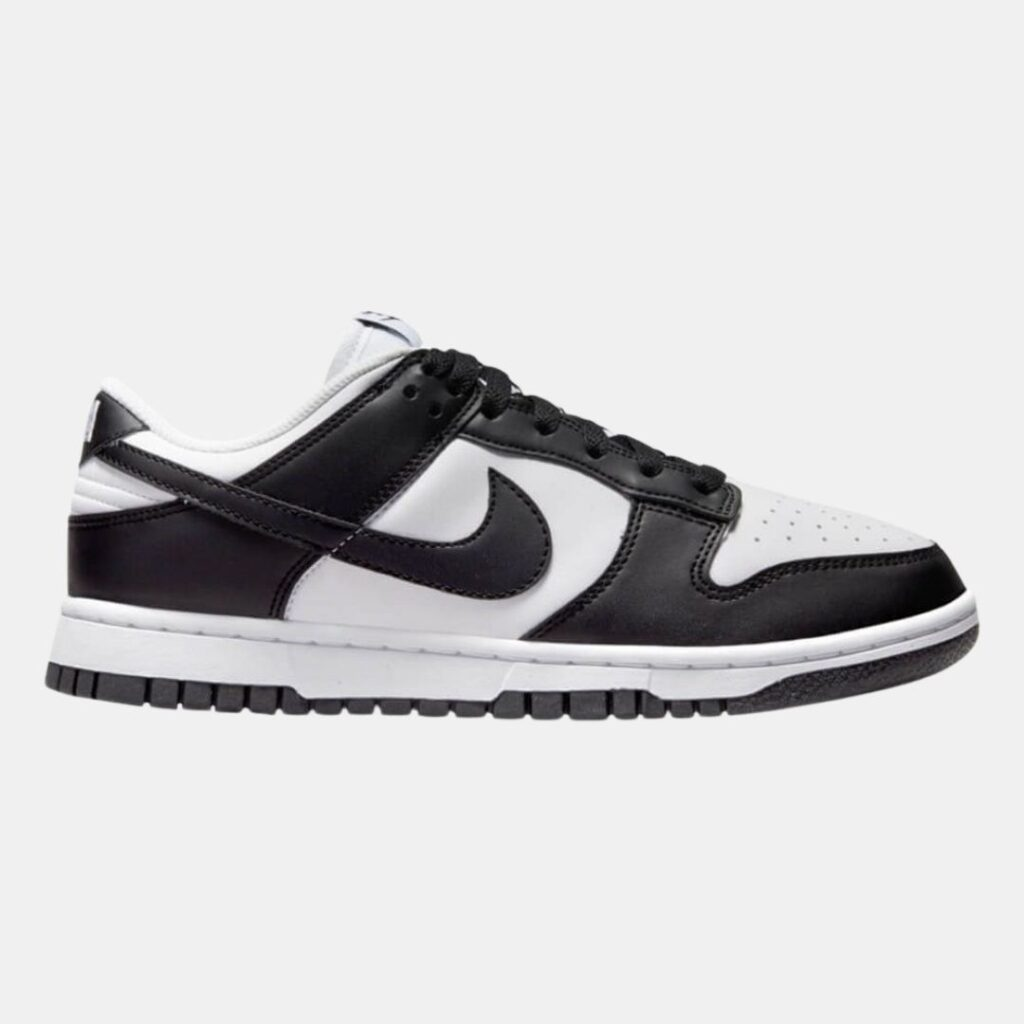
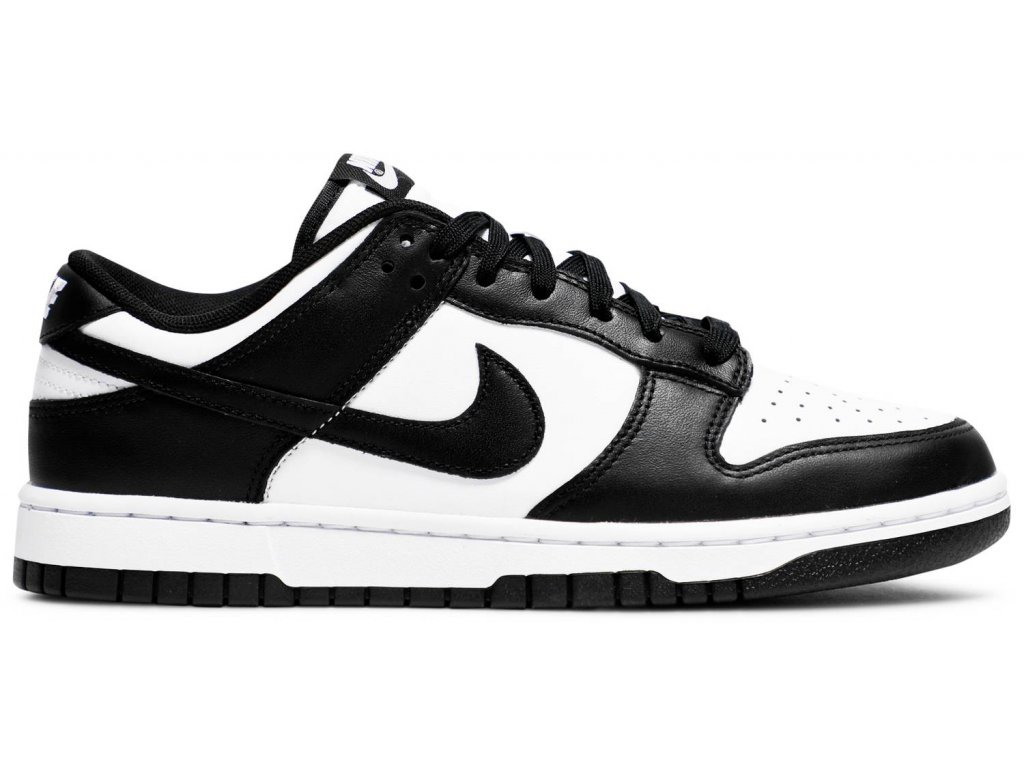
pokracujem

Changed region(s): [[0.0, 0.1875, 1.0, 0.8125]]

diff --git a/projekty/eshop/kategorie/jordan.html b/projekty/eshop/kategorie/jordan.html
@@ -1,6 +1,6 @@
 <html>
     <head>
-        <title>Podstránka počítače</title>
+        <title>Jordan</title>
         <link href="../css/produkty.css" type="text/css" rel="stylesheet">
 </head>
 <body>
@@ -14,7 +14,7 @@
                     <li class="zoznam"><a href="./adidas.html">Adidas</a></li>
                     <li class="zoznam"><a href="./bape.html">Bape</a></li>
                     <li class="zoznam"><a href="./newbalance.html">NewBalance</a></li>
-                    <li class="zoznam"><a href="../../../portfolio/index.html">O nás</a></li>
+                    <li class="zoznam"><a href="../../../index.html">O nás</a></li>
                 </ul>
             </nav>
             <div class="menu">
@@ -33,71 +33,71 @@
         
         <div class="produkt1">
             <div class="produkt11">
-                <img src="Resources/images/alza.png" height="300px" width="300px">
-                <div class="nazov"><h2>Alza GameBox Core RTX 3070</h2></div>
-                <div class="cena"><h2>Cena:1919€</h2></div>
+                <img src="../obrazky/jordanlow.jpg" height="300px" width="400px">
+                <div class="nazov"><h2>Air Jordan 1 Low SE</h2></div>
+                <div class="cena"><h2>Cena:110€</h2></div>
                 <button type="button">Vložiť do košíka</button>
                 <button type="button">Uplatniť zľavový kupón</button>
             </div>
-            <div class="popis"><p>Tak toto je úplná pecka v našej ponuke herných počítačov. Použili sme totiž najnovší 8-jadrový čip od Intelu v kombinácii s horúcou novinkou NVIDIA GeForce RTX 3070. Vďaka tomu sa s Alza GameBox RTX3070 nezastavíte pred žiadnou hrou a všetko si užijete pokojne aj v 4K!</p>
+            <div class="popis"><p>Tenisky, ktoré vždy vyniknú svojím odvážnym a sviežim štýlom. Air Jordan 1 Low SE vám poskytnú profil a nadčasové detaily, ktoré máte radi, vo farbách, ktoré vzdávajú hold vášmu osobnému štýlu.</p>
                
             </div>    
         </div>
         
         <div class="produkt2">
             <div class="produkt22">
-                <img src="Resources/images/hpp.png" height="300px" width="250px">
-                <div class="nazov"><h2>HP ProDesk 400 G7</h2></div>
-                <div class="cena"><h2>Cena:959,90€</h2></div>
+                <img src="../obrazky/aj1mid.jpg" height="320px" width="420px">
+                <div class="nazov"><h2>Air Jordan 1 Mid SE</h2></div>
+                <div class="cena"><h2>Cena:130€</h2></div>
                 <button type="button">Vložiť do košíka</button>
                 <button type="button">Uplatniť zľavový kupón</button>
             </div>
-        <div class="popis"><p>PC HP je vynikajúcou voľbou na každý pracovný stôl aj do domácnosti. Základom sú spoľahlivé komponenty, iste vás poteší aj pomer ceny k výkonu. Zostava sa používa na plnenie tých najťažších úloh a budú s ňou spokojní aj tí najnáročnejší používatelia. Srdcom praktickej základnej zostavy PC HP ProDesk 400 G7 je čip Intel Core i7 ktorému sekunduje extra veľká porcia operačnej pamäte. Pri práci iste oceníte aj rýchlosť disku, SSD disk bez mechanických častí je ohromne rýchly, to sa prejaví na svižnej práci s dátami aj na celkovom chode.</p>
+        <div class="popis"><p>Air Jordan 1 Mid SE vám dodajú odvážny vzhľad, sú vyrobené z prémiovej kože a nadčasovým favoritom dodajú svieži vzhľad s aktualizovanou farebnou schémou.</p>
                 
             </div> 
         </div>
         
         <div class="produkt3">
         <div class="produkt33">
-            <img src="Resources/images/pavilion.png" height="300px" width="250px">
-            <div class="nazov"><h2>HP Pavilion Gaming TG01-2901nc Black</h2></div>
-            <div class="cena"><h2>Cena:1269€</h2></div>
+            <img src="../obrazky/aj1high.jpg" height="300px" width="400px">
+            <div class="nazov"><h2>Air Jordan 1 Hi FlyEase Schuh</h2></div>
+            <div class="cena"><h2>Cena:160€</h2></div>
             <button type="button">Vložiť do košíka</button>
             <button type="button">Uplatniť zľavový kupón</button>
         </div>
-        <div class="popis"><p>Herný počítač HP je ideálnym spoločníkom každého nadšeného hráča. Okrem moderného dizajnu vám ponúkne aj rýchly a spoľahlivý hardvér. Vybraná herná PC zostava je príjemným kompromisom medzi výkonom a cenou, pohodlne vystačí menej náročným hráčom a nemusíte sa s ňou báť ani novších herných titulov. Základným prvkom PC herného HP Pavilion Gaming TG01-2901nc Black je čip Intel Core i5 ku ktorému patrí extra veľká porcia operačnej pamäte. Môže sa pochváliť výkonnou grafickou kartou, prostredníctvom ktorej si vychutnáte tie správne detaily.</p>
+        <div class="popis"><p>Air Jordan 1 Hi FlyEase kombinujú vytúžený štýl prvých typických tenisiek Michaela Jordana s rýchlym a jednoduchým vstupným systémom jednou rukou.Neexistujú žiadne šnúrky na zaväzovanie, len obopínajúci zips a dva remienky, ktoré zabezpečia prispôsobenie.</p>
             
         </div>
         </div>
         
         <div class="produkt4">
         <div class="produkt44">
-            <img src="Resources/images/gamebox.png" height="300px" width="300px">
-            <div class="nazov"><h2>Alza GameBox Core GTX1660 Super</h2></div>
-            <div class="cena"><h2>Cena:1049€</h2></div>
+            <img src="../obrazky/aj13.jpg" height="300px" width="400px">
+            <div class="nazov"><h2>Air Jordan 13 Del Sol</h2></div>
+            <div class="cena"><h2>Cena:209€</h2></div>
             <button type="button">Vložiť do košíka</button>
             <button type="button">Uplatniť zľavový kupón</button>
         </div>
-        <div class="popis"><p>Šesťjadrový procesor ako nový herný štandard a spoločne s ním grafika radu GeForce GTX 1660 SUPER. Vďaka tejto kombinácii si na počítači Alza GameBox Core GTX1660 Super zahráte prakticky všetky hry vo Full HD rozlíšení. Celé PC je profesionálne zostavené do atraktívnej skrine SXT Shadow-2085.</p>
+        <div class="popis"><p>Keď svieti slnko, život je o niečo priateľskejší a jednoduchší. Inšpirovaný energiou týchto lúčov, Air Jordan 13 "Del Sol" a obal majú minimalistický dizajn s OG vzhľadom a originálnym balením. Čierna medzipodrážka poskytuje dokonalý základ pre prémiový zvršok z bielej prešívanej kože a farebné semišové akcenty Del Sol. Užite si prvé slnečné lúče a rozvoňte sa na jar s najnovšou farbou Air Jordan 13.</p>
             
         </div>
         </div>
         
         <div class="produkt5">
         <div class="produkt55">
-            <img src="Resources/images/thinkpad.png" height="275px" width="400px">
-            <div class="nazov"><h2>Lenovo ThinkCentre M75s SFF</h2></div>
-            <div class="cena"><h2>Cena:598,75€</h2></div>
+            <img src="../obrazky/aj11.jpg" height="300px" width="400px">
+            <div class="nazov"><h2>Air Jordan 11 Cool Grey</h2></div>
+            <div class="cena"><h2>Cena:190€</h2></div>
             <button type="button">Vložiť do košíka</button>
             <button type="button">Uplatniť zľavový kupón</button>
         </div>
-        <div class="popis"><p>Počítačová zostava Lenovo ThinkCentre M725s vo vyhotovení SFF (Small Form Factor) ponúka efektivitu a vysoký výkon vo veľmi malom vyhotovení. Počítač môže byť postavený vertikálne aj horizontálne, takže sa pre neho nájde najvhodnejšie umiestnenie v každom pracovnom interiéri. Osobný počítač ThinkCentre je maximálne spoľahlivý a zabezpečený, môžete sapreto plne sústrediť na vaše podnikanie a minimalizovať náklady na IT správu.</p>
+        <div class="popis"><p>Čo je chladnejšie ako cool? Cool Grey, samozrejme. Air Jordan 11 „Cool Grey“, inšpirovaný originálom, ktorý nosil Michael Jordan na svojej ceste za štvrtým majstrovským prsteňom, sa vracia na počesť jeho osláveného 20. výročia. Michael Jordan mal pri svojom návrate do ligy klasickú farbu. Táto verzia sa vyznačuje kvalitnou lakovanou a nubukovou kožou, celoprepínacím odpružením Nike Air a podrážkou Ice.</p>
             
         </div>
     </div>
 </div>
         <div class="copy">
-            <div class="copytext"><p2>©2022, EU - Matej Hric. All Rights Reserved. Products in our EU Store are sold by Bulldog Sports Ltd.</p2></div>
+            <div class="copytext"><p2>©2022, EU - Boty. All Rights Reserved.</p2></div>
         </div>
         
 </body>

diff --git a/projekty/eshop/kategorie/nike.html b/projekty/eshop/kategorie/nike.html
@@ -1,6 +1,6 @@
 <html>
 <head>
-        <title>Stránka notebooky</title>
+        <title>Nike</title>
         <link href="../css/produkty.css" type="text/css" rel="stylesheet">
 </head>
 
@@ -15,7 +15,7 @@
                     <li class="zoznam"><a href="./adidas.html">Adidas</a></li>
                     <li class="zoznam"><a href="./bape.html">Bape</a></li>
                     <li class="zoznam"><a href="./newbalance.html">NewBalance</a></li>
-                    <li class="zoznam"><a href="../../../portfolio/index.html">O nás</a></li>
+                    <li class="zoznam"><a href="../../../index.html">O nás</a></li>
                 </ul>
             </nav>
             <div class="menu">
@@ -47,58 +47,58 @@
 
 <div class="produkt2">
     <div class="produkt22">
-        <img src="../obrazky/panda.jpg" height="350px" width="380px" style="margin-left: 35px;">
-        <div class="nazov"><h2>HP Pavilion Gaming 15</h2></div>
-        <div class="cena"><h2>Cena:779€</h2></div>
+        <img src="../obrazky/panda.jpg" height="320px" width="430px" >
+        <div class="nazov"><h2>Nike dunk low Panda</h2></div>
+        <div class="cena"><h2>Cena:200€</h2></div>
         <button type="button">Vložiť do košíka</button>
         <button type="button">Uplatniť zľavový kupón</button>
     </div>
-<div class="popis"><p>Výkonný notebook HP Pavilion Gaming 15 ponúka dokonalý zážitok z používania aj vďaka výnimočnej uhlopriečke 15,6". Osvedčí sa nielen pri hraní hier, ale aj pri plnom pracovnom nasadení a multimediálnej zábave. Určite vás zaujme výrazným, tenkým dizajnom. Zdokonalený systém chladenia, dostatok konektorov a rýchle a pritom objemné úložisko – to sú ďalšie prednosti notebooku HP Pavilion Gaming 15. Určite vás poteší aj 144 Hz obnovovacou frekvenciou displeja, takže si vychutnáte plynulú zábavu a akékoľvek sekanie obrazu sa stane minulosťou.</p>
+<div class="popis"><p>Model Nike Dunk sa preslávil v roku 1985, kedy bol prispôsobený potrebám basketbalu. Silueta Nike Dunk naberala na sláve vďaka predstaveniu všestranných dizajnov a kombináciami navrhnutých vo farbách škôl. Nike Dunk sa vrátili na trh v roku 1998 ako neformálna obuv, ktorá prerazila v skate svete.</p>
     
     </div> 
 </div>
 
 <div class="produkt3">
 <div class="produkt33">
-    <img src="Resources/images/lenovontb.png" height="275px" width="400px">
-    <div class="nazov"><h2>Lenovo Legion 5 Pro</h2></div>
-    <div class="cena"><h2>Cena:1339€</h2></div>
+    <img src="../obrazky/blazer (2).jpg" height="375px" width="400px">
+    <div class="nazov"><h2>Nike Blazer Mid '77 Vintage</h2></div>
+    <div class="cena"><h2>Cena:100€</h2></div>
     <button type="button">Vložiť do košíka</button>
     <button type="button">Uplatniť zľavový kupón</button>
 </div>
-<div class="popis"><p>Veľký herný notebook Lenovo Legion poslúži aj na prácu, aj na zábavu. Konštrukcia z kovu je mimoriadne pevná a iste oceníte aj prémiové spracovanie. Hráčsky notebook Lenovo Legion 5 Pro 16ACH6H Storm Grey/Black kovový sa môže chváliť konfiguráciou, ktorá je určená pre náročnejších používateľov či študentov Nachádza sa v ňom úspornejší, ale zároveň výkonný šesťjadrový procesor AMD Ryzen 5. Vaše dáta sa budú ukladať na dostatočne objemný SSD disk, ktorý dokáže znateľne zrýchliť chod celého systému. Gaming notebook má vo výbave klávesnicu s numerickým blokom. Predinštalovaným operačným systémom, ktorý sa v počítači nachádza, je Windows 10 Home.</p>
+<div class="popis"><p>V 70-tych rokoch bola Nike novou topánkou na trhu. V skutočnosti tak nové, že sme prenikli na basketbalovú scénu a testovali prototypy na nohách nášho tímu v teréne. Samozrejme, dizajn sa rokmi zlepšil, no názov zostal rovnaký. Nike Blazer Mid '77 Vintage - klasika od začiatku.</p>
     
 </div>
 </div>
 
 <div class="produkt4">
 <div class="produkt44">
-    <img src="Resources/images/probook.png" height="400px" width="400px">
-    <div class="nazov"><h2>HP ProBook 430 G7</h2></div>
-    <div class="cena"><h2>Cena:799€</h2></div>
+    <img src="../obrazky/airmax.jpg" height="470px" width="400px">
+    <div class="nazov"><h2>Nike Air Max 90 Air Max Month</h2></div>
+    <div class="cena"><h2>Cena:150€</h2></div>
     <button type="button">Vložiť do košíka</button>
     <button type="button">Uplatniť zľavový kupón</button>
 </div>
-<div class="popis"><p>Štýlový, tenký a ľahký notebook HP ProBook 430 G7 sa výborne hodí pre pracovné nasadenie profesionálov v kancelárii i na cestách. Tento notebook predstavuje cenovo dostupnú kombináciu inovácie, špičkového zabezpečenia a multimediálnych funkcií. Na notebooku HP ProBook 430 G7 vás určite zaujme aj ultratenké telo s novou, prirodzene striebornou povrchovou úpravou s ostrými líniami a jasnými hranami.</p>
+<div class="popis"><p>Oslávte mesiac Air Max návratom do 90. rokov. Pôvodne navrhnuté na behanie, Air Max 90 sa stali klasikou vďaka svojmu desiatky rokov trvajúcemu vplyvu. Táto verzia zostáva verná pohodliu a odpruženiu originálu a zároveň dáva nový nádych ikonickému vzhľadu.</p>
     
 </div>
 </div>
 
 <div class="produkt5">
 <div class="produkt55">
-    <img src="Resources/images/acerr.png" height="325px" width="400px">
-    <div class="nazov"><h2>Acer Aspire 5</h2></div>
-    <div class="cena"><h2>Cena:754,44€</h2></div>
+    <img src="../obrazky/react.jpg" height="377px" width="400px">
+    <div class="nazov"><h2>Nike React Infinity Run Flyknit 2</h2></div>
+    <div class="cena"><h2>Cena:160€</h2></div>
     <button type="button">Vložiť do košíka</button>
     <button type="button">Uplatniť zľavový kupón</button>
 </div>
-<div class="popis"><p>Notebook – Intel Core i5 1135G7 Tiger Lake, 15.6" IPS matný 1920 × 1080, RAM 8GB DDR4, Intel Iris Xe Graphics, SSD 512GB, numerická klávesnica, podsvietená klávesnica, USB 3.2 Gen 1, USB-C, čítačka odtlačkov prstov, WiFi 6, 48 Wh batéria, hmotnosť 1.7kg, Windows 10 Home HDD upgrade kit (A515-56-56XJ)</p>
+<div class="popis"><p>Pokračujte v behu s Nike React Infinity Run Flyknit 2. Aktualizovaný zvršok Flyknit s technológiou Flywire poskytuje podporu a priedušnosť tam, kde to najviac potrebujete. Širšia oblasť prstov zaisťuje stabilitu, aby sa zabránilo krúteniu. Vysoké výšky peny zaisťujú mäkkú odozvu a dlhotrvajúci komfort. Stále jedna z našich najtestovanejších topánok je navrhnutá tak, aby vám umožnila pocítiť svoj potenciál pri každom kroku.</p>
     
 </div>
 </div>
 </div>
 <div class="copy">
-    <div class="copytext"><p2>©2022, EU - Matej Hric. All Rights Reserved. Products in our EU Store are sold by Bulldog Sports Ltd.</p2></div>
+    <div class="copytext"><p2>©2022, EU - Boty. All Rights Reserved.</p2></div>
 </div>
 
 </body>

diff --git a/projekty/eshop/css/produkty.css b/projekty/eshop/css/produkty.css
@@ -75,8 +75,9 @@ nav ul li a {
 
 .nadpis {
     text-align: center;
-    padding: 30px   ;
-    color: cyan
+    padding: 60px   ;   
+    color: rgb(255, 0, 0);
+    font-size: 50px;
 }
 
 .nazov {
@@ -89,7 +90,7 @@ nav ul li a {
 .popis {
     text-align: center;
     max-width: 750px;
-    margin-left: 25px;
+    margin-left: 150px;
     margin-top: 117px;
     color: aliceblue;
 }
@@ -183,7 +184,7 @@ button  {
     font-family: 'Segoe UI', Tahoma, Geneva, Verdana, sans-serif;
     font-weight: bolder;
     padding: 5px 1px 5px 1px;
-    background: cyan;
+    background: rgb(255, 255, 255);
     border: 0;
     border-radius: 20px;
     margin-top: 10px;
@@ -198,7 +199,7 @@ button:hover {
 
 [atribut] {
     position: relative;
-    background-color: cyan;
+    background-color: rgb(255, 255, 255);
     color: black;
 }
 
@@ -209,17 +210,17 @@ button:hover {
     left: 5px;
     right: 5px;
     margin-top: 10px;
-    background-color: cyan;
+    background-color: rgb(255, 255, 255);
     color: black;
     border-radius: 10px;
 }
 
 .copy {
-    color: cyan;
+    color: rgb(255, 0, 0);
     text-align: left;
     font-family: Impact, Haettenschweiler, 'Arial Narrow Bold', sans-serif;
     font-size: 11px;
-    border-top: 1px solid cyan;
+    border-top: 1px solid rgb(255, 0, 0);
     background-image: linear-gradient(rgb(0, 0, 0), rgb(0, 0, 0)), url(../images/hviezdy.jpg);
     background-position: center;
     background-size: cover;

diff --git a/projekty/eshop/index.html b/projekty/eshop/index.html
@@ -4,7 +4,7 @@
     <meta charset="UTF-8">
     <meta http-equiv="X-UA-Compatible" content="IE=edge">
     <meta name="viewport" content="width=device-width, initial-scale=1.0">
-    <title>Eshop s elektronikou</title>
+    <title>Eshop s teniskami</title>
     <link href="./css/style.css" type="text/css" rel="stylesheet">
 </head>
 <html>
@@ -20,7 +20,7 @@
                     <li class="zoznam"><a href="./kategorie/adidas.html">Adidas</a></li>
                     <li class="zoznam"><a href="./kategorie/bape.html">Bape</a></li>
                     <li class="zoznam"><a href="./kategorie/newbalance.html">NewBalance</a></li>
-                    <li class="zoznam"><a href="../../portfolio/index.html">O nás</a></li>
+                    <li class="zoznam"><a href="../../index.html">O nás</a></li>
                 </ul>
             </nav>
             <div class="menu">
@@ -56,7 +56,7 @@
      
            
         <div class="copy">
-            <div class="copytext"><p2>©2022, EU - Matej Hric. All Rights Reserved.</p2></div>
+            <div class="copytext"><p2>©2022, EU - Boty. All Rights Reserved.</p2></div>
         </div>
 </body>
 </html>

diff --git a/projekty/eshop/kategorie/bape.html b/projekty/eshop/kategorie/bape.html
@@ -1,7 +1,7 @@
 <!DOCTYPE html>
 <html lang="en">
     <head>
-        <title>Podstránka počítače</title>
+        <title>Bape</title>
         <link href="../css/produkty.css" type="text/css" rel="stylesheet">
 </head>
 
@@ -20,7 +20,7 @@
                     <li class="zoznam"><a href="./adidas.html">Adidas</a></li>
                     <li class="zoznam"><a href="./bape.html">Bape</a></li>
                     <li class="zoznam"><a href="./newbalance.html">NewBalance</a></li>
-                    <li class="zoznam"><a href="../../../portfolio/index.html">O nás</a></li>
+                    <li class="zoznam"><a href="../../../index.html">O nás</a></li>
                 </ul>
             </nav>
             <div class="menu">
@@ -103,7 +103,7 @@
         </div>
         </div>
         <div class="copy">
-            <div class="copytext"><p2>©2022, EU - Matej Hric. All Rights Reserved. Products in our EU Store are sold by Bulldog Sports Ltd.</p2></div>
+            <div class="copytext"><p2>©2022, EU - Boty. All Rights Reserved.</p2></div>
         </div>
         
 </body>

diff --git a/projekty/eshop/kategorie/newbalance.html b/projekty/eshop/kategorie/newbalance.html
@@ -1,6 +1,6 @@
 <html>
     <head>
-        <title>Podstránka počítače</title>
+        <title>NewBalance</title>
         <link href="../css/produkty.css" type="text/css" rel="stylesheet">
 </head>
 
@@ -15,7 +15,7 @@
                     <li class="zoznam"><a href="./adidas.html">Adidas</a></li>
                     <li class="zoznam"><a href="./bape.html">Bape</a></li>
                     <li class="zoznam"><a href="./newbalance.html">NewBalance</a></li>
-                    <li class="zoznam"><a href="../../../portfolio/index.html">O nás</a></li>
+                    <li class="zoznam"><a href="../../../index.html">O nás</a></li>
                 </ul>
             </nav>
             <div class="menu">
@@ -98,7 +98,7 @@
         </div>
     </div>
         <div class="copy">
-            <div class="copytext"><p2>©2022, EU - Matej Hric. All Rights Reserved. Products in our EU Store are sold by Bulldog Sports Ltd.</p2></div>
+            <div class="copytext"><p2>©2022, EU - Boty. All Rights Reserved.</p2></div>
         </div>
         
 </body>

diff --git a/projekty/eshop/kategorie/adidas.html b/projekty/eshop/kategorie/adidas.html
@@ -1,6 +1,6 @@
 <html>
     <head>
-        <title>Podstránka počítače</title>
+        <title>Adidas</title>
         <link href="../css/produkty.css" type="text/css" rel="stylesheet">
 </head>
 
@@ -15,7 +15,7 @@
                     <li class="zoznam"><a href="./adidas.html">Adidas</a></li>
                     <li class="zoznam"><a href="./bape.html">Bape</a></li>
                     <li class="zoznam"><a href="./newbalance.html">NewBalance</a></li>
-                    <li class="zoznam"><a href="../../../portfolio/index.html">O nás</a></li>
+                    <li class="zoznam"><a href="../../../index.html">O nás</a></li>
                 </ul>
             </nav>
             <div class="menu">
@@ -99,7 +99,7 @@
         </div>
 </div>
         <div class="copy">
-            <div class="copytext"><p2>©2022, EU - Matej Hric. All Rights Reserved. Products in our EU Store are sold by Bulldog Sports Ltd.</p2></div>
+            <div class="copytext"><p2>©2022, EU - Boty. All Rights Reserved.</p2></div>
         </div>
         
 </body>

diff --git a/index.html b/index.html
@@ -19,9 +19,7 @@
     <h3>Koníčky a záujmi</h3>
     <p>Obľúbené predmety: MAT, DDM, DTS</p>
     <p>Koníčky: plávanie, posilovanie</p>
-    <p>Na škole som sa naučil pracovať s viacerími programovacími jazykmi</p>
-    <p>Do konca štúdia by som sa chcel v týchto jazykoch zdokonaliť</p>
-    <p>Linka na moju druhú stránku: <a href="./html/subpage.html">TU!</a></p>
+    <p>Na škole som sa naučil pracovať s viacerími <a href="./projekty/eshop/index.html">programovacími jazykmi</a>
     <table>
         <tr>
           <th>Band</th>
@@ -32,8 +30,9 @@
           <td><a href="https://sk.wikipedia.org/wiki/Pern%C3%ADkov%C3%BD_tatko"><img class="tabulka" src="./portfolio/img/movie.jpg" alt="BreakingBad"></a></td>
         </tr>
   <footer>
-    Projekty na ktorých som robil sú <a href="./portfolio/Tlacitko.html">tu.</a>
+    Projekty na ktorých som robil sú <a href="./projekty/vyhladavac/Tlacitko.html">tu</a> a <a href="./projekty/eshop/index.html">tu.</a>
   </footer>
+
 
 </body>
 </html>
